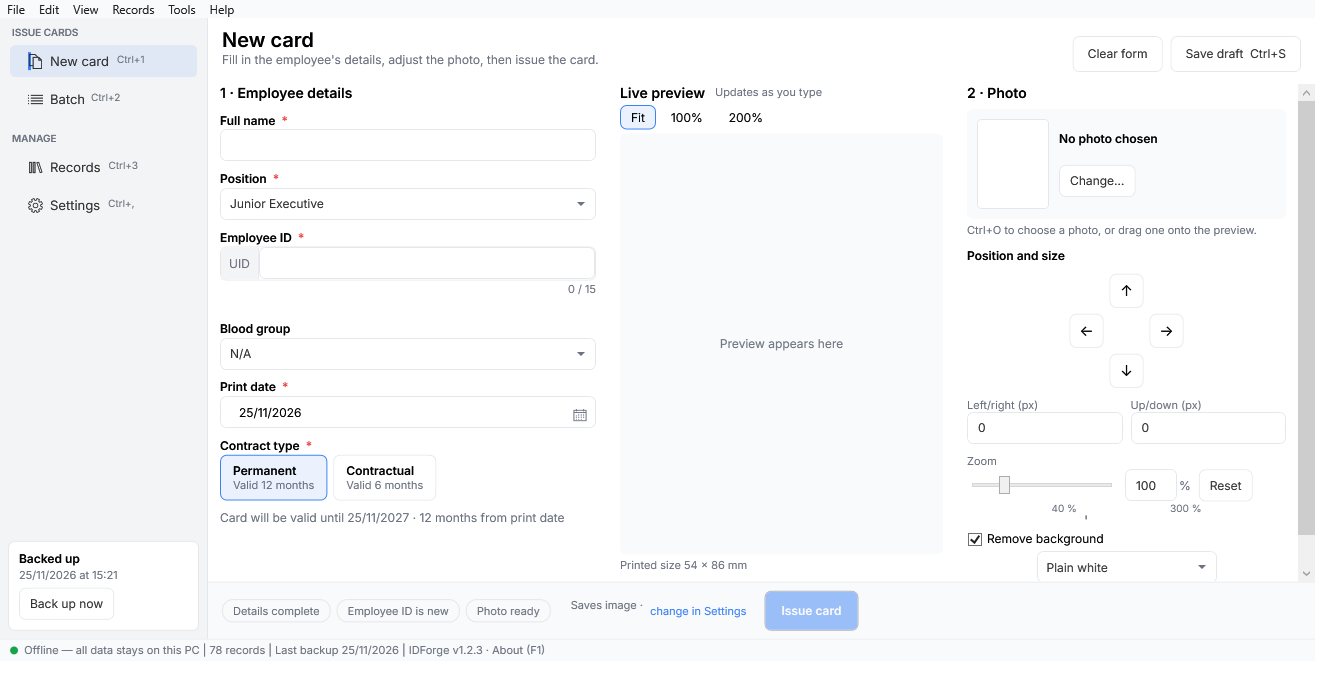
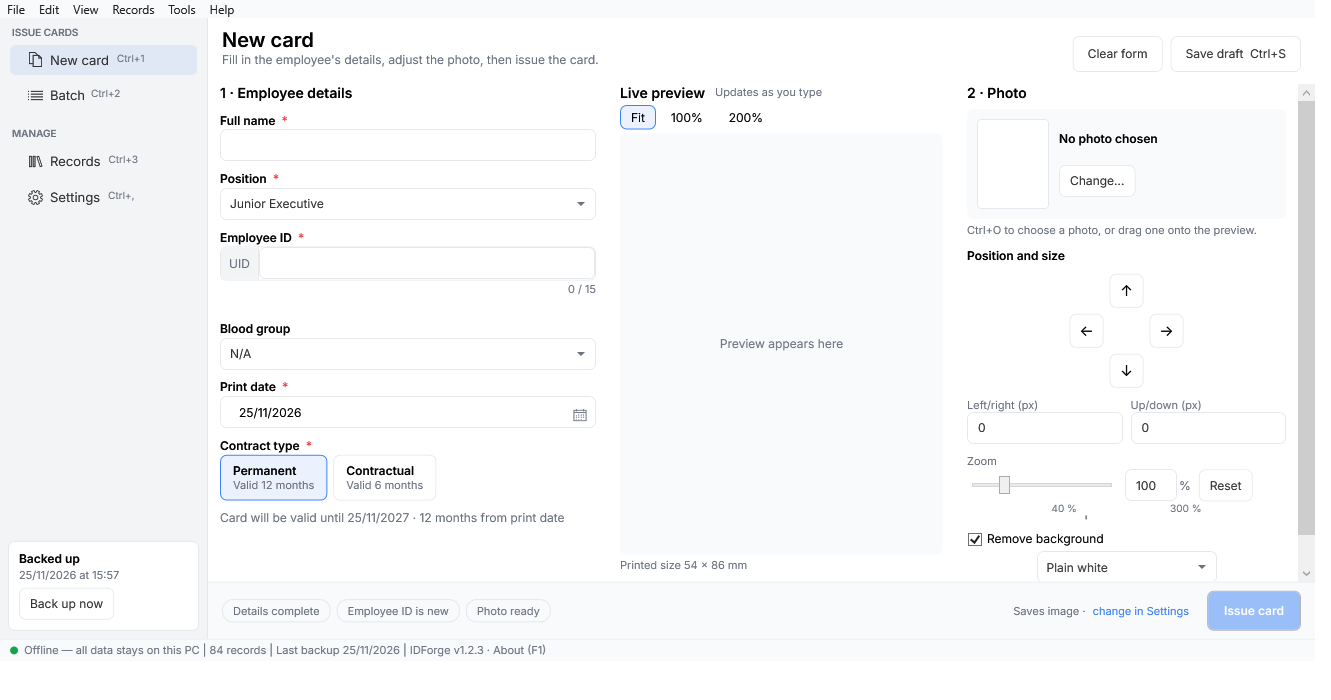
Fix I-A: indicator and footer
- Nav selection: removed the vertical accent bar; selected item keeps the
  light blue tint. The 2 px blue ring now appears only on keyboard focus
  (IsKeyboardFocused/Within triggers — no IsChecked/IsMouseOver border).
- New card footer rebuilt as a single horizontal row: chips, status text,
  "Saves image · change in Settings" line, blocked note, and Issue card
  button all share one vertical centre line.
- Also locked _cutout/_windowImage disposal in OnClosed under _photoLock —
  an in-flight preview render on the thread pool could read a disposed
  SkiaSharp bitmap (AccessViolation crash seen in test runs).

Generated with [Devin](https://devin.ai)

diff --git a/src/IDForge/MainWindow.xaml b/src/IDForge/MainWindow.xaml
@@ -35,7 +35,7 @@
                 </Setter.Value>
             </Setter>
         </Style>
-        <!-- Left-nav item: blue accent bar + light blue background when checked -->
+        <!-- Left-nav item: light blue background when checked; blue ring only on keyboard focus -->
         <Style x:Key="NavItem" TargetType="RadioButton">
             <Setter Property="FontFamily" Value="{StaticResource AppFontFamily}"/>
             <Setter Property="Foreground" Value="{StaticResource TextBrush}"/>
@@ -51,15 +51,12 @@
                                 Padding="{TemplateBinding Padding}"
                                 Background="Transparent" BorderBrush="Transparent" BorderThickness="2">
                             <Grid>
-                                <Rectangle x:Name="accent" Width="3" Height="18" RadiusX="1.5"
-                                           HorizontalAlignment="Left" Fill="Transparent"/>
                                 <ContentPresenter VerticalAlignment="Center"/>
                             </Grid>
                         </Border>
                         <ControlTemplate.Triggers>
                             <Trigger Property="IsChecked" Value="True">
                                 <Setter TargetName="bd" Property="Background" Value="{StaticResource PrimaryTintBrush}"/>
-                                <Setter TargetName="accent" Property="Fill" Value="{StaticResource PrimaryBrush}"/>
                             </Trigger>
                             <Trigger Property="IsMouseOver" Value="True">
                                 <Setter TargetName="bd" Property="Background" Value="{StaticResource PanelBrush}"/>
@@ -517,8 +514,15 @@
                     <Border Grid.Row="2" BorderBrush="{StaticResource BorderBrush}"
                             BorderThickness="0,1,0,0" Background="{StaticResource PanelLightBrush}"
                             Padding="14,8">
-                        <DockPanel>
-                            <StackPanel Orientation="Horizontal" DockPanel.Dock="Left"
+                        <Grid>
+                            <Grid.ColumnDefinitions>
+                                <ColumnDefinition Width="Auto"/>
+                                <ColumnDefinition Width="*"/>
+                                <ColumnDefinition Width="Auto"/>
+                                <ColumnDefinition Width="Auto"/>
+                                <ColumnDefinition Width="Auto"/>
+                            </Grid.ColumnDefinitions>
+                            <StackPanel Grid.Column="0" Orientation="Horizontal"
                                         VerticalAlignment="Center">
                                 <Border x:Name="ChipDetails" CornerRadius="10" Padding="10,4"
                                         Margin="0,0,6,0" BorderBrush="{StaticResource BorderBrush}"
@@ -538,35 +542,39 @@
                                     <TextBlock x:Name="TxtChipPhoto" Text="Photo ready"
                                                FontSize="11" Foreground="{StaticResource MutedBrush}"/>
                                 </Border>
-                                <TextBlock x:Name="TxtStatus" VerticalAlignment="Center"
-                                           Margin="14,0,0,0" TextWrapping="Wrap" MaxWidth="380"
-                                           Foreground="{StaticResource TextBrush}"/>
                             </StackPanel>
-                            <StackPanel Orientation="Horizontal" DockPanel.Dock="Right"
+                            <TextBlock x:Name="TxtStatus" Grid.Column="1"
+                                       VerticalAlignment="Center"
+                                       Margin="14,0,0,0" TextWrapping="Wrap" MaxWidth="380"
+                                       Foreground="{StaticResource TextBrush}"/>
+                            <StackPanel Grid.Column="2" Orientation="Horizontal"
                                         VerticalAlignment="Center">
-                                <StackPanel Orientation="Horizontal" VerticalAlignment="Center">
-                                    <TextBlock x:Name="TxtOutputText" Text="Saves image"
-                                               FontSize="11" Foreground="{StaticResource MutedBrush}"/>
-                                    <TextBlock x:Name="TxtOutputPdf" Text=" + PDF" FontSize="11"
-                                               Foreground="{StaticResource MutedBrush}"
-                                               Visibility="Collapsed"/>
-                                    <TextBlock Text=" · " FontSize="11"
-                                               Foreground="{StaticResource MutedBrush}"/>
-                                    <Button x:Name="BtnOutputSettings" Content="change in Settings"
-                                            Style="{StaticResource GhostButton}" Height="24"
-                                            Padding="4,0" FontSize="11" Click="GoSettings_Click"
-                                            Visibility="Collapsed"/>
-                                </StackPanel>
-                                <TextBlock x:Name="TxtIssueBlocked"
-                                           Text="Employee ID already exists. Open the record to re-issue."
-                                           FontSize="11" Foreground="{StaticResource ErrorBrush}"
-                                           VerticalAlignment="Center" Margin="0,0,10,0"
-                                           TextWrapping="Wrap" MaxWidth="280" Visibility="Collapsed"/>
-                                <Button x:Name="BtnSave" Content="Issue card" Click="Save_Click"
-                                        Style="{StaticResource PrimaryButton}" Height="40"
-                                        Margin="14,0,0,0" IsEnabled="False" ToolTip="Ctrl+Enter"/>
+                                <TextBlock x:Name="TxtOutputText" Text="Saves image"
+                                           FontSize="11" Foreground="{StaticResource MutedBrush}"
+                                           VerticalAlignment="Center"/>
+                                <TextBlock x:Name="TxtOutputPdf" Text=" + PDF" FontSize="11"
+                                           Foreground="{StaticResource MutedBrush}"
+                                           Visibility="Collapsed" VerticalAlignment="Center"/>
+                                <TextBlock Text=" · " FontSize="11"
+                                           Foreground="{StaticResource MutedBrush}"
+                                           VerticalAlignment="Center"/>
+                                <Button x:Name="BtnOutputSettings" Content="change in Settings"
+                                        Style="{StaticResource GhostButton}" Height="20"
+                                        Padding="4,0" FontSize="11" VerticalAlignment="Center"
+                                        Click="GoSettings_Click"
+                                        Visibility="Collapsed"/>
                             </StackPanel>
-                        </DockPanel>
+                            <TextBlock x:Name="TxtIssueBlocked"
+                                       Text="Employee ID already exists. Open the record to re-issue."
+                                       FontSize="11" Foreground="{StaticResource ErrorBrush}"
+                                       VerticalAlignment="Center" Margin="0,0,10,0"
+                                       TextWrapping="Wrap" MaxWidth="280" Visibility="Collapsed"
+                                       Grid.Column="3"/>
+                            <Button x:Name="BtnSave" Content="Issue card" Click="Save_Click"
+                                    Style="{StaticResource PrimaryButton}" Height="40"
+                                    Margin="14,0,0,0" IsEnabled="False" ToolTip="Ctrl+Enter"
+                                    Grid.Column="4" VerticalAlignment="Center"/>
+                        </Grid>
                     </Border>
                 </Grid>
 

diff --git a/tests/IDForge.Tests/FixIPartATests.cs b/tests/IDForge.Tests/FixIPartATests.cs
@@ -1,0 +1,129 @@
+using System.IO;
+using System.Windows;
+using System.Windows.Controls;
+using System.Windows.Controls.Primitives;
+using System.Windows.Media;
+using System.Windows.Media.Imaging;
+using System.Windows.Shapes;
+using System.Windows.Threading;
+using IDForge;
+
+namespace IDForge.Tests;
+
+/// <summary>Fix I-A — nav selection indicator and New card footer row.</summary>
+[Collection("Wpf")]
+public class FixIPartATests
+{
+    private static MainWindow NewShownWindow(double w, double h)
+    {
+        var win = FixPassTests.NewWindow();
+        win.Width = w; win.Height = h;
+        win.WindowStartupLocation = WindowStartupLocation.Manual;
+        win.Left = 40; win.Top = 40;
+        win.Show();
+        for (int i = 0; i < 10; i++)
+        {
+            if (win.ActualWidth > 0) break;
+            var rtb = new RenderTargetBitmap(4, 4, 96, 96, PixelFormats.Pbgra32);
+            rtb.Render(win);
+            Dispatcher.CurrentDispatcher.Invoke(() => { }, DispatcherPriority.Render);
+            Dispatcher.CurrentDispatcher.Invoke(() => { }, DispatcherPriority.Loaded);
+            win.UpdateLayout();
+        }
+        win.UpdateLayout();
+        return win;
+    }
+
+    private static IEnumerable<DependencyObject> Descendants(DependencyObject root)
+    {
+        yield return root;
+        int n = VisualTreeHelper.GetChildrenCount(root);
+        for (int i = 0; i < n; i++)
+            foreach (var d in Descendants(VisualTreeHelper.GetChild(root, i)))
+                yield return d;
+    }
+
+    [Fact]
+    public void Nav_Selection_Has_Tint_No_Bar_And_Focus_Ring_Only_On_Keyboard()
+    {
+        WpfSta.Run(() =>
+        {
+            var win = NewShownWindow(1331, 700);
+            try
+            {
+                var nav = (RadioButton)win.FindName("NavBatch")!;
+                nav.IsChecked = true;
+                win.UpdateLayout();
+
+                // Selected item: light-blue background, NO accent rectangle.
+                var tpl = nav.Template;
+                var bd = (Border)tpl.FindName("bd", nav)!;
+                var bg = (SolidColorBrush)bd.Background;
+                var tint = (SolidColorBrush)Application.Current!.FindResource("PrimaryTintBrush");
+                Assert.Equal(tint.Color, bg.Color);
+                var accent = Descendants(nav).OfType<Rectangle>()
+                    .FirstOrDefault(r => r.Name == "accent");
+                Assert.True(accent == null || accent.Visibility == Visibility.Collapsed
+                    || ((SolidColorBrush)accent.Fill).Color.A == 0,
+                    "selected nav item still shows the accent bar");
+
+                // Ring only on keyboard focus: no IsChecked/IsMouseOver trigger
+                // may set BorderBrush; only IsKeyboardFocused(Within) may.
+                var borderSetters = ((ControlTemplate)nav.Template).Triggers.Cast<Trigger>()
+                    .Where(t => t.Setters.OfType<Setter>().Any(s => s.Property == Border.BorderBrushProperty))
+                    .Select(t => t.Property?.Name).ToList();
+                Assert.All(borderSetters, n => Assert.Contains("KeyboardFocus", n));
+            }
+            finally { win.Close(); }
+        });
+    }
+
+    [Fact]
+    public void Footer_Items_Share_One_Centre_Line()
+    {
+        WpfSta.Run(() =>
+        {
+            var win = NewShownWindow(1331, 700);
+            try
+            {
+                win.ShowArea("newcard");
+                win.UpdateLayout();
+                var names = new[] { "ChipDetails", "TxtStatus", "TxtOutputText",
+                                    "BtnOutputSettings", "BtnSave" };
+                var centres = new List<double>();
+                foreach (var n in names)
+                {
+                    var fe = win.FindName(n) as FrameworkElement;
+                    if (fe == null || fe.Visibility == Visibility.Collapsed) continue;
+                    var tl = fe.TransformToAncestor(win).Transform(new Point(0, 0));
+                    centres.Add(tl.Y + fe.ActualHeight / 2);
+                }
+                Assert.True(centres.Count >= 3, $"footer items found: {centres.Count}");
+                Assert.True(centres.Max() - centres.Min() <= 1.0,
+                    $"footer centre spread {centres.Max() - centres.Min():F2}px: {string.Join(", ", centres)}");
+
+                // Screenshot: New card footer region.
+                var dir = System.IO.Path.GetFullPath(System.IO.Path.Combine(AppContext.BaseDirectory,
+                    "..", "..", "..", "..", "..", "docs", "redesign", "shots"));
+                System.IO.Directory.CreateDirectory(dir);
+                var footer = win.FindName("PageNewCard") as FrameworkElement;
+                Assert.NotNull(footer);
+                // Render just the footer border (Grid.Row=2 of page grid).
+                FrameworkElement? footerBar = null;
+                foreach (var d in Descendants(footer!).OfType<Border>())
+                    if (d.BorderThickness.Top == 1 && d.ActualHeight is > 30 and < 90)
+                        footerBar = d;
+                var target = (Visual)(footerBar ?? footer!);
+                int w = Math.Max(1, (int)Math.Ceiling(((FrameworkElement)target).ActualWidth));
+                int h = Math.Max(1, (int)Math.Ceiling(((FrameworkElement)target).ActualHeight));
+                var rtb = new RenderTargetBitmap(w, h, 96, 96, PixelFormats.Pbgra32);
+                rtb.Render(target);
+                var enc = new PngBitmapEncoder();
+                enc.Frames.Add(BitmapFrame.Create(rtb));
+                using var fs = System.IO.File.Create(System.IO.Path.Combine(dir, "newcard-footer.png"));
+                enc.Save(fs);
+            }
+            finally { win.Close(); }
+        });
+    }
+}

diff --git a/src/IDForge/MainWindow.xaml.cs b/src/IDForge/MainWindow.xaml.cs
@@ -2542,7 +2542,9 @@ public partial class MainWindow : Window
     protected override void OnClosed(EventArgs e)
     {
         foreach (var r in _batchRows) { r.Cutout?.Dispose(); r.WindowImage?.Dispose(); }
-        _cutout?.Dispose(); _windowImage?.Dispose();
+        // Dispose under _photoLock: a preview/issue render may be reading these
+        // bitmaps on a thread-pool thread — disposing unlocked crashes SkiaSharp.
+        lock (_photoLock) { _cutout?.Dispose(); _windowImage?.Dispose(); }
         _svc.Dispose();
         base.OnClosed(e);
     }
